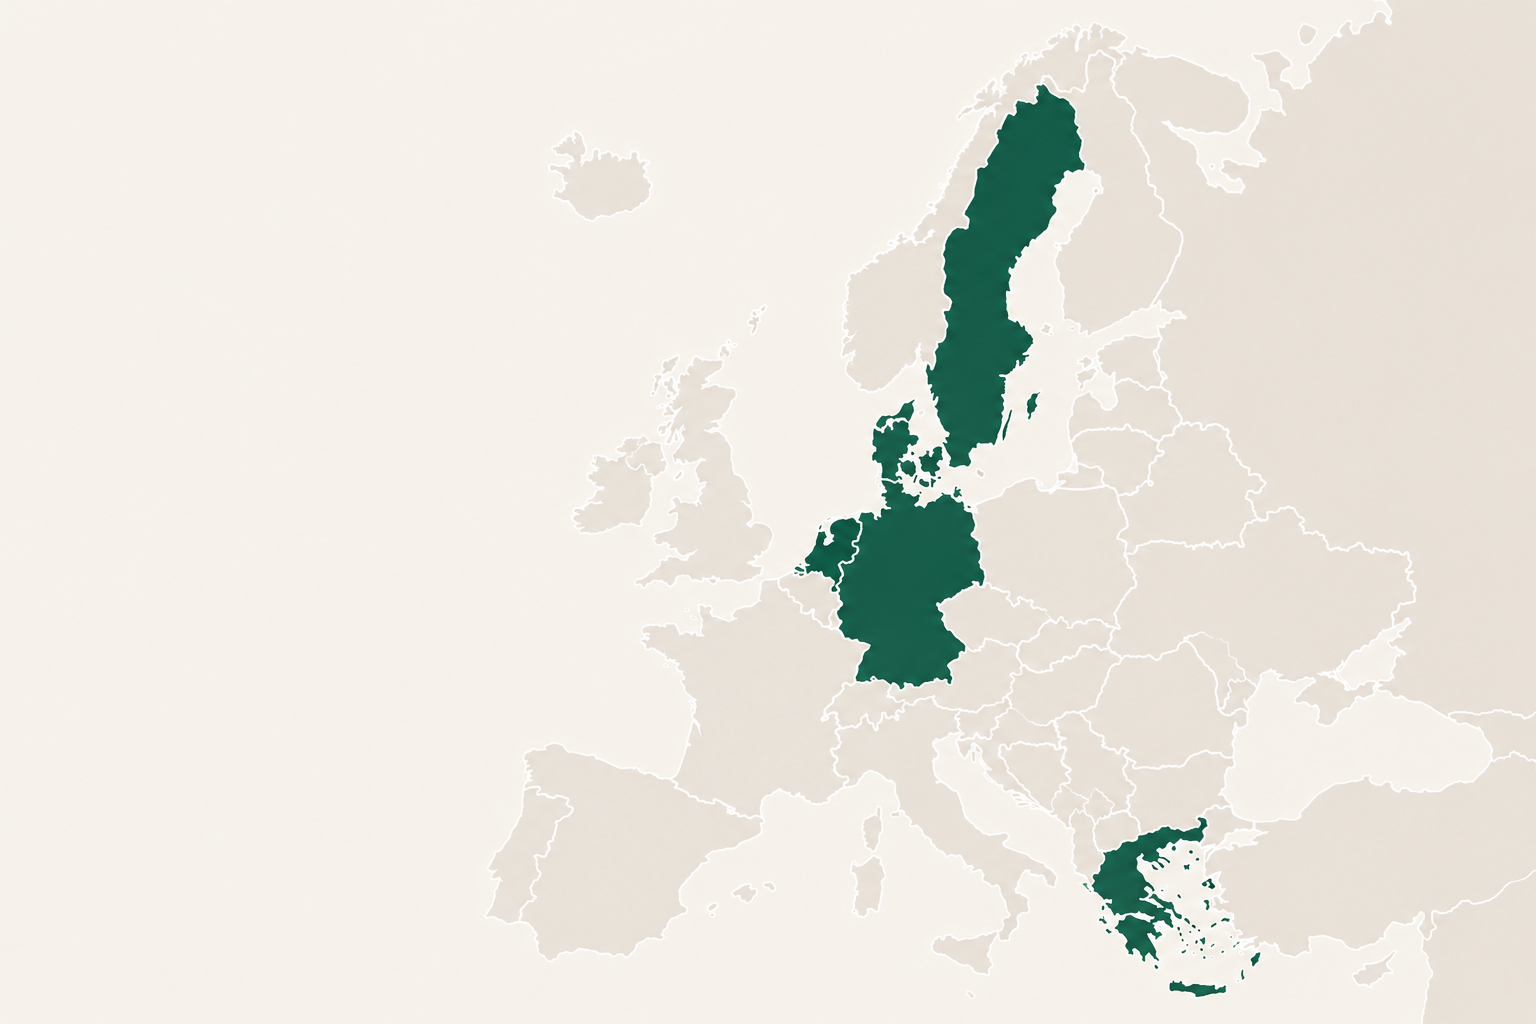
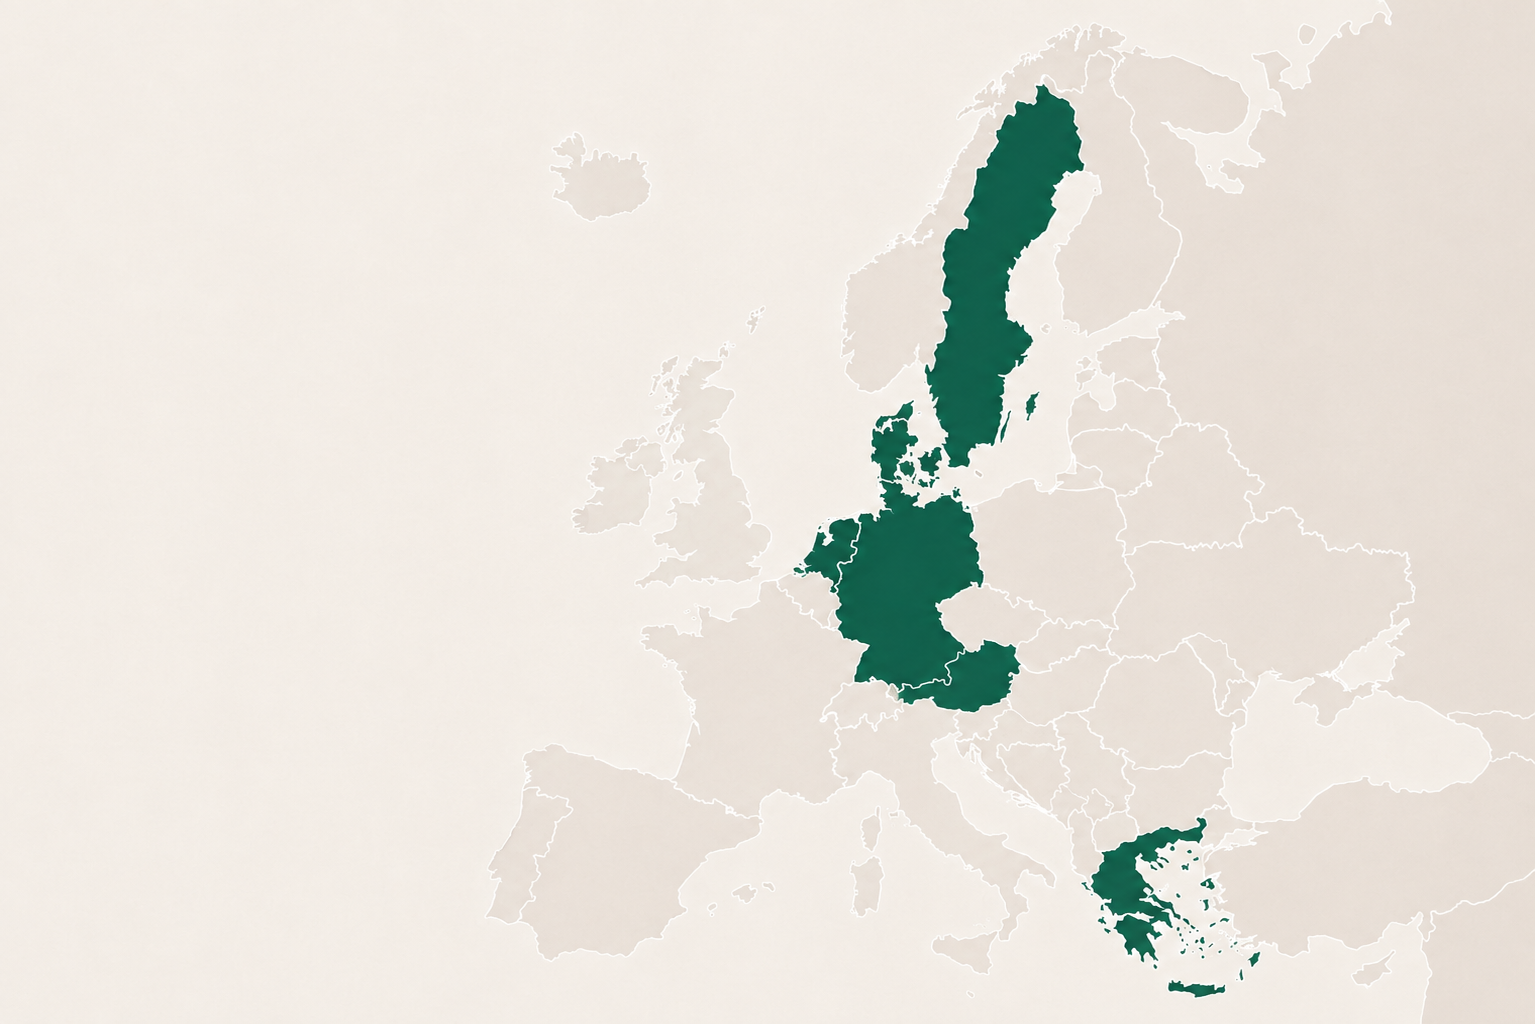
ajsutes finales

diff --git a/frontend/src/components/home/FeaturedProjects.tsx b/frontend/src/components/home/FeaturedProjects.tsx
@@ -14,7 +14,7 @@ export default function FeaturedProjects() {
       <div className="companySingleSection">
         <div className="companySingleImage">
           <Image
-  src="/company/mapa.png"
+  src="/home/cambio.png"
   alt="The Not Coal Company"
   fill
   className="companyImage"